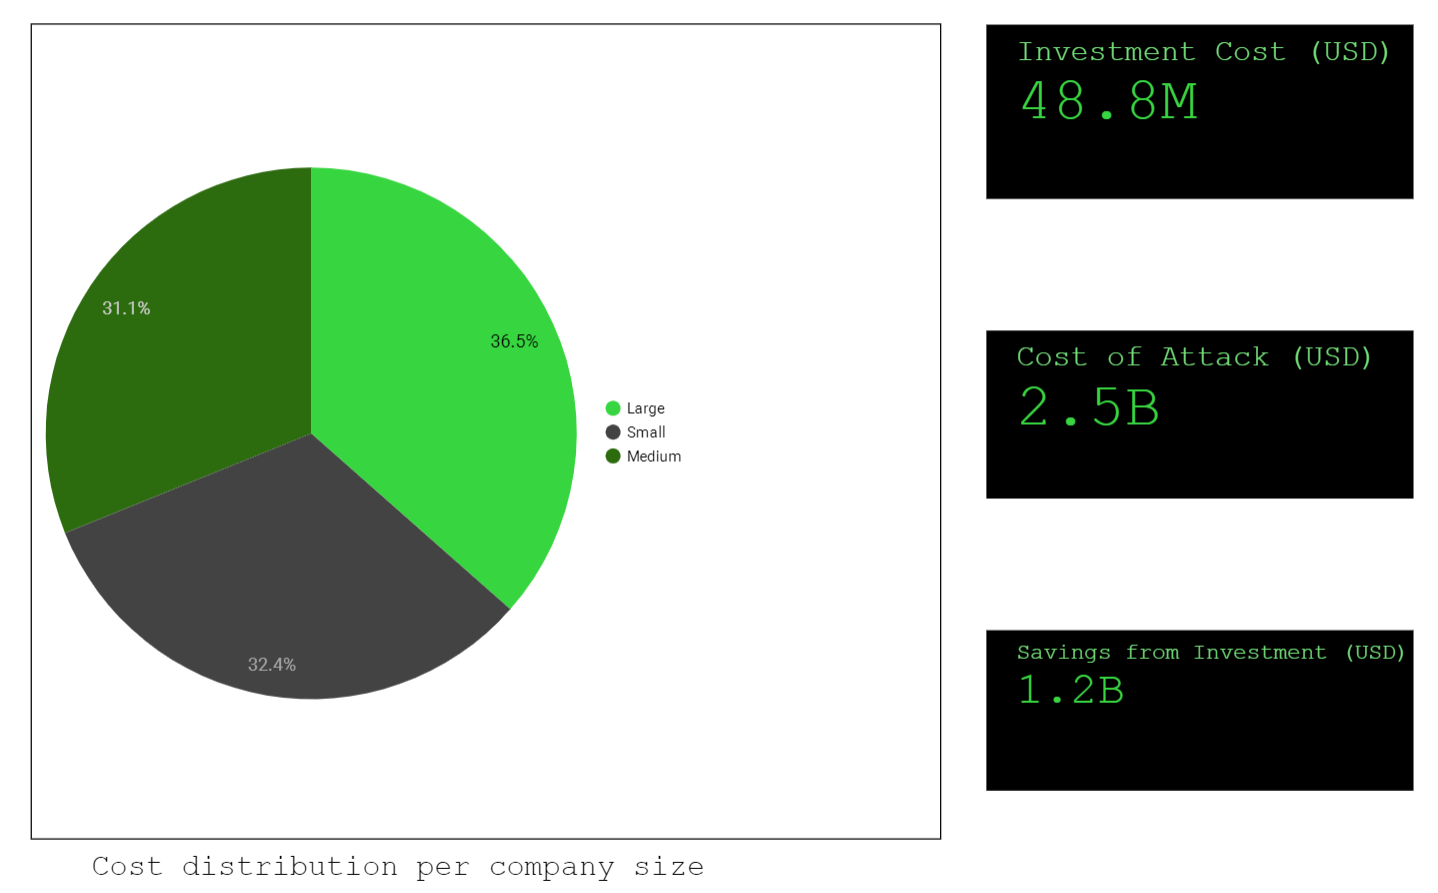
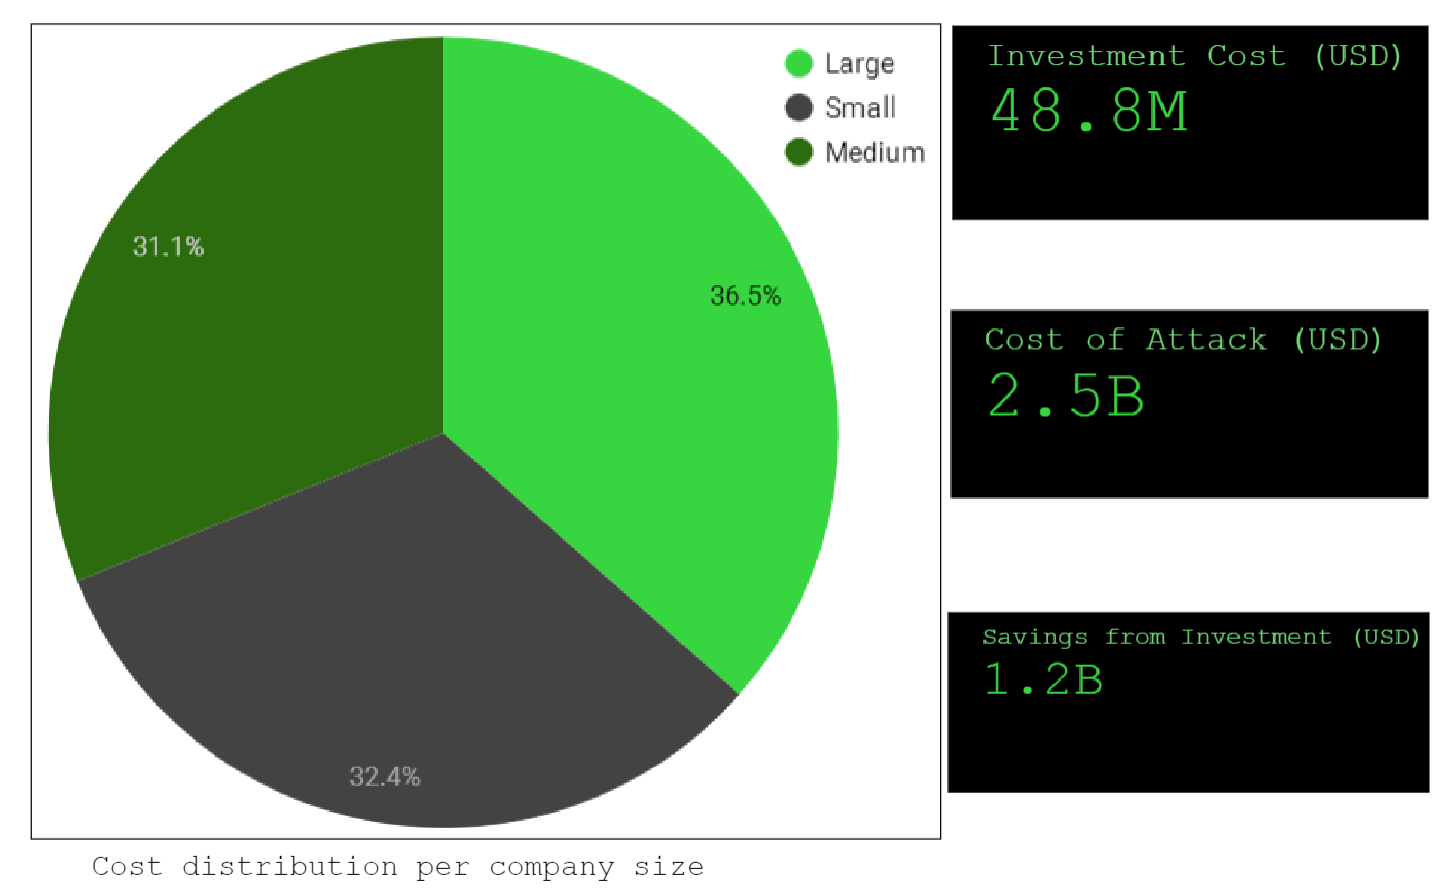
making graphs easier to read and hover

diff --git a/style.css b/style.css
@@ -138,6 +138,11 @@ h3 {
     aspect-ratio: auto;
     /* padding: 5%; */
     border: 5px solid var(--one);
+    transition: transform .2s;
+}
+
+.dataImage:hover {
+    transform: scale(1.5);
 }
 
 .dataDesc {
